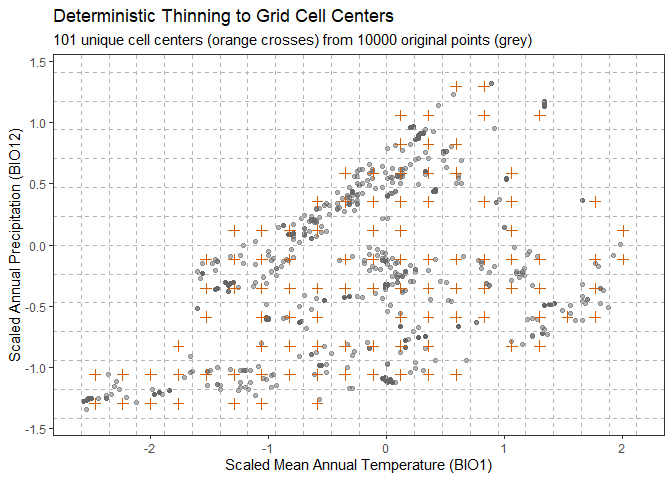
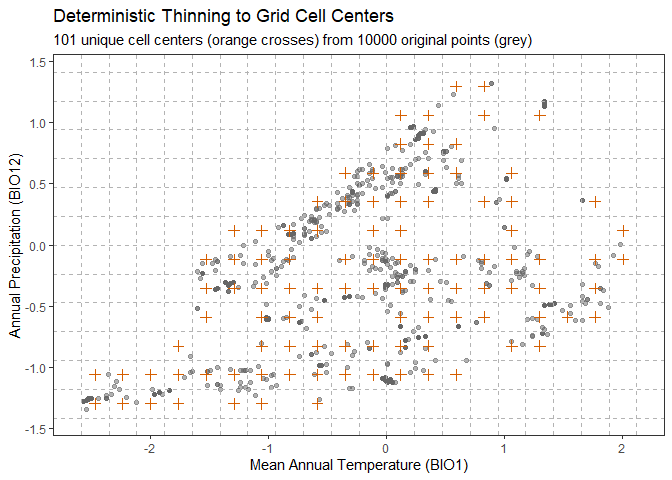
add update

Changed region(s): [[0.3438, 0.9375, 0.75, 1.0], [0.0, 0.2812, 0.0312, 0.75]]

diff --git a/README.md b/README.md
@@ -413,8 +413,8 @@ ggplot() +
                      "unique cell centers (orange crosses) from", 
                      nrow(thinned_data_center$original_points), 
                      "original points (grey)"),
-    x = "Scaled Mean Annual Temperature (BIO1)",
-    y = "Scaled Annual Precipitation (BIO12)"
+    x = "Mean Annual Temperature (BIO1)",
+    y = "Annual Precipitation (BIO12)"
   ) +
   theme_bw() +
   theme(panel.grid.major = element_blank(),
